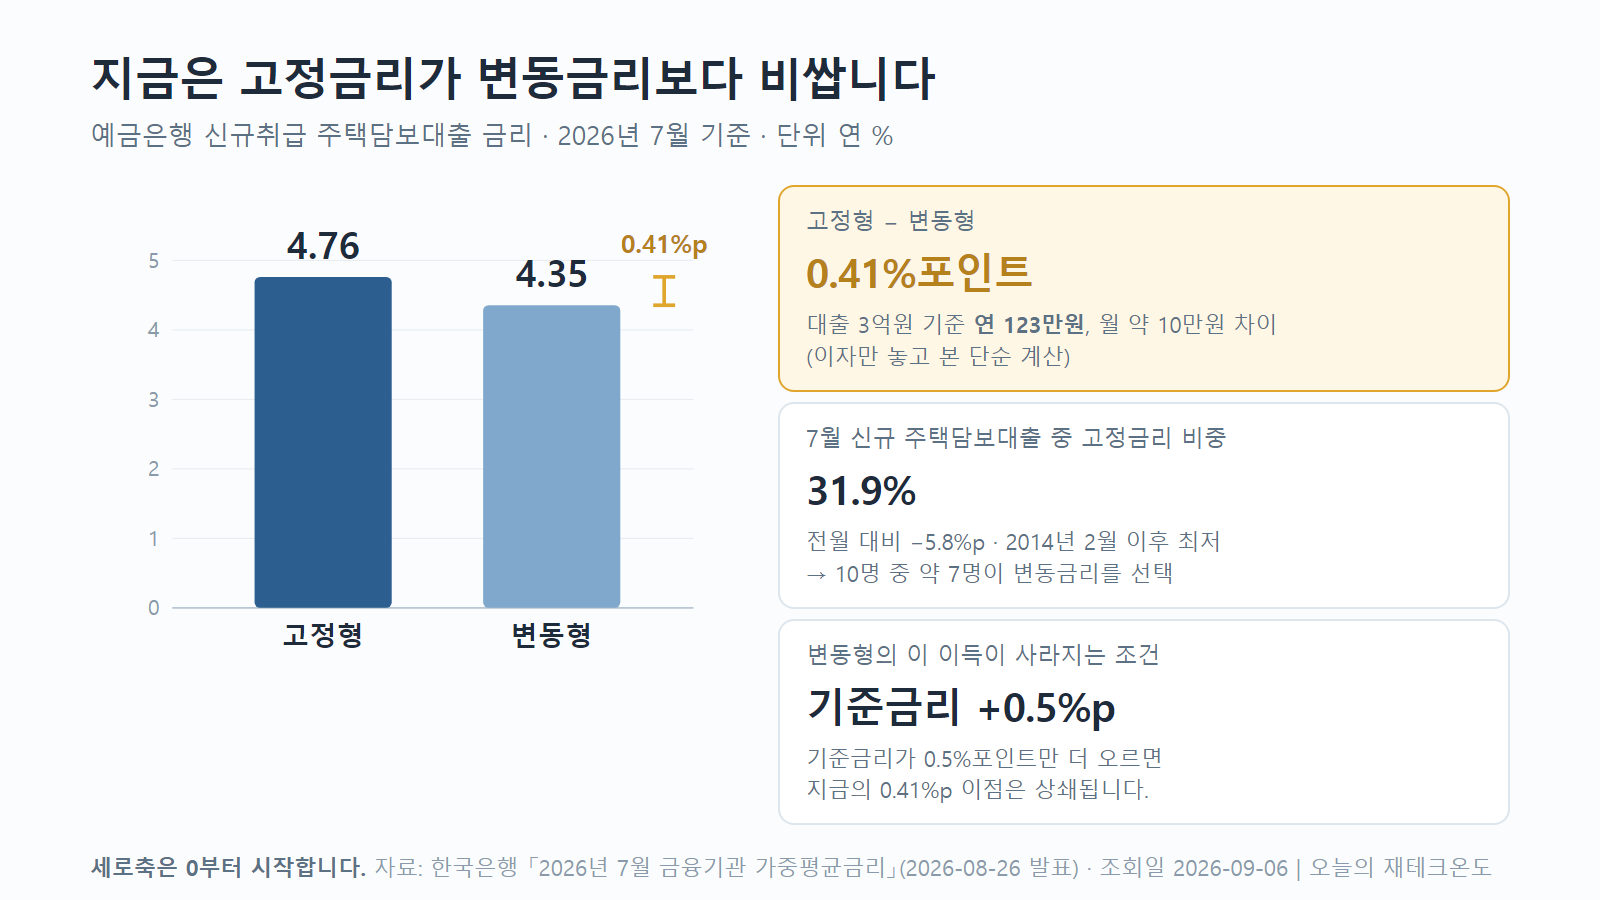
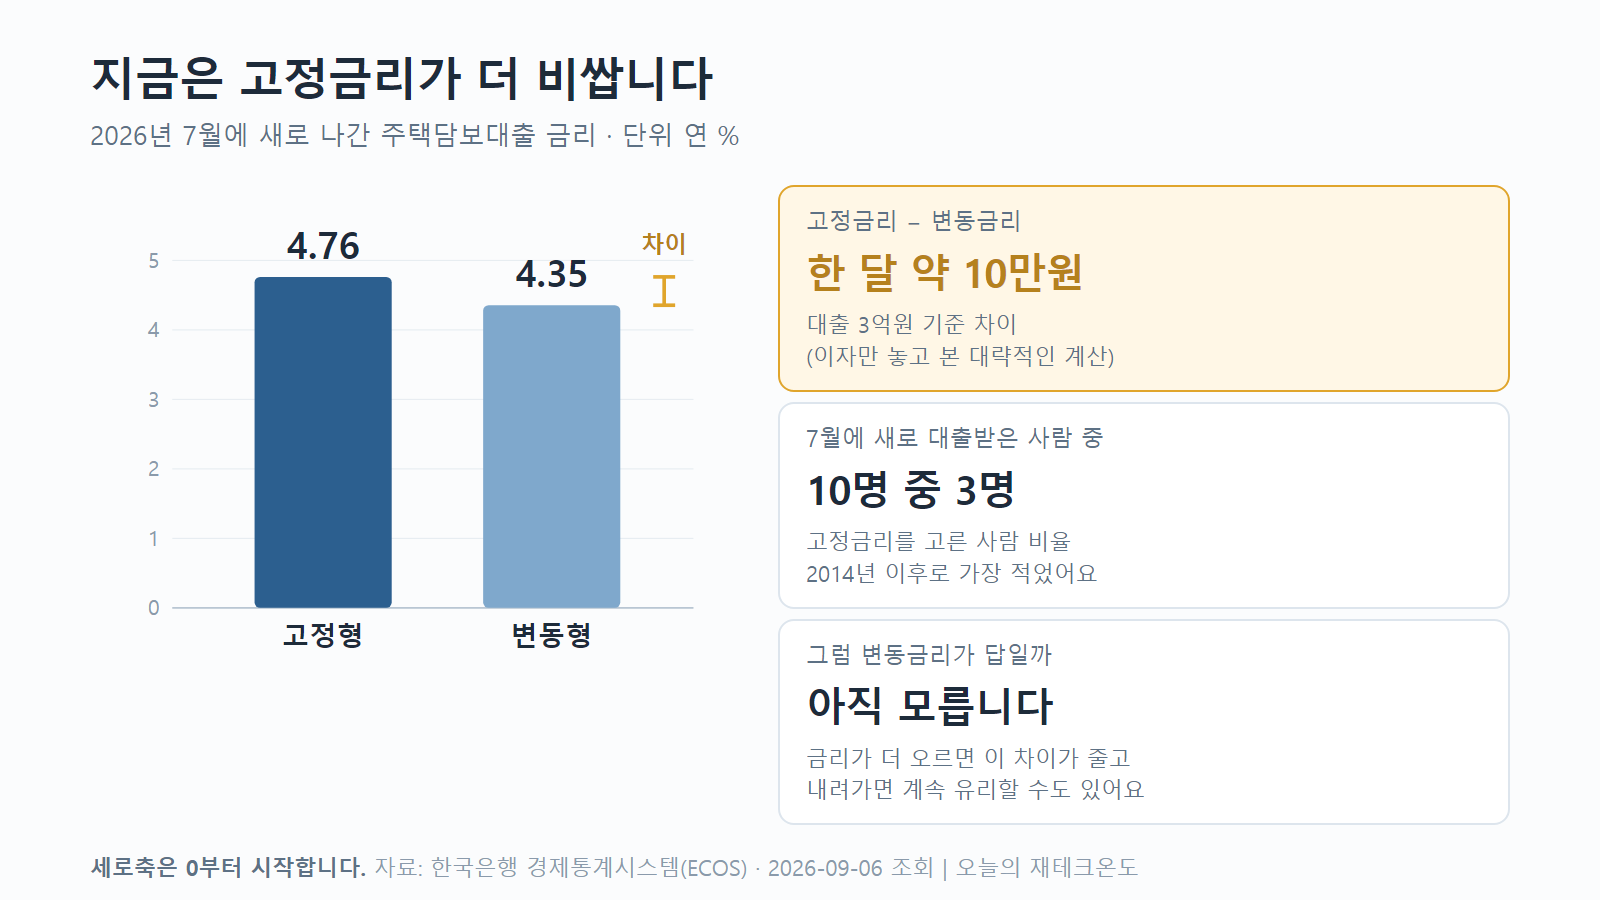
moneyweather: %포인트 용어를 본문과 이미지에서 제거
지적받은 문제
  "%가 아니라 %포인트라고 붙이는 이유가 있는데, 지금 당장 중요한 건
   아니니 넘어가겠습니다" — 글쓴이가 몰라서 회피하는 것처럼 보인다.

  얼버무리느니 빼는 게 낫다고 판단해 용어 자체를 걷어냈다.

본문
  - 1장의 %포인트 설명 문단 삭제
  - 3장 "이번에 오른 0.5%포인트가" → "이번에 오른 만큼(2.50% → 3.00%)이"
    구체적인 숫자로 대체해 용어 없이도 무엇이 오른 건지 알 수 있게 함
  - 본문 %포인트/%p 잔존 0건

이미지 (본문만 고치고 이미지를 빼먹는 실수를 다시 하지 않으려 전체 점검)
  썸네일
    "2.75% → 3.00% (+0.25%p)" → "2.75% → 3.00%"
    하단 "코픽스 공시" → "코픽스 발표"
    하단 "내 대출 갱신일 · 6~12개월" → "내 대출금리 바뀌는 날"

  고정vs변동 그림 — 본문과 어긋나 있어 전면 수정
    "0.41%포인트" → "한 달 약 10만원"
    "31.9% / 전월 대비 −5.8%p" → "10명 중 3명"
    "기준금리 +0.5%p — 0.41%p 이점은 상쇄됩니다"
      → "그럼 변동금리가 답일까 / 아직 모릅니다
         금리가 더 오르면 이 차이가 줄고, 내려가면 계속 유리할 수도 있어요"
    이전 커밋에서 본문의 단정 표현을 뺐는데 그림에는 그대로 남아 있었다.

  차트의 "COFIX 공시(신규취급액 기준)"는 출처 표기 줄이므로 유지.
  출처는 정확해야 한다 (CLAUDE.md §28, §49).

본문 4,241자 / 숫자 130개 (33자당 1개) / 금지표현 0건
검증 수치 전부 유지.

diff --git a/MONEYWEATHER/04_이미지/_소스/2026-09-05_img03_fixvar.html b/MONEYWEATHER/04_이미지/_소스/2026-09-05_img03_fixvar.html
@@ -21,8 +21,8 @@
   .src b { color:#5d7185; }
 </style>
 
-<h2>지금은 고정금리가 변동금리보다 비쌉니다</h2>
-<div class="sub">예금은행 신규취급 주택담보대출 금리 · 2026년 7월 기준 · 단위 연 %</div>
+<h2>지금은 고정금리가 더 비쌉니다</h2>
+<div class="sub">2026년 7월에 새로 나간 주택담보대출 금리 · 단위 연 %</div>
 
 <div class="wrap">
   <svg width="640" height="512" viewBox="0 0 700 560">
@@ -59,28 +59,28 @@
     <line x1="628" y1="118" x2="628" y2="149" stroke="#e0a52c" stroke-width="4"/>
     <line x1="616" y1="118" x2="640" y2="118" stroke="#e0a52c" stroke-width="4"/>
     <line x1="616" y1="149" x2="640" y2="149" stroke="#e0a52c" stroke-width="4"/>
-    <text x="628" y="92" font-size="27" font-weight="700" fill="#b5811d" text-anchor="middle" font-family="'Malgun Gothic',sans-serif">0.41%p</text>
+    <text x="628" y="92" font-size="25" font-weight="700" fill="#b5811d" text-anchor="middle" font-family="'Malgun Gothic',sans-serif">차이</text>
   </svg>
 
   <div class="right">
     <div class="kv accent">
-      <div class="k">고정형 − 변동형</div>
-      <div class="v">0.41%포인트</div>
-      <div class="note">대출 3억원 기준 <b>연 123만원</b>, 월 약 10만원 차이<br>(이자만 놓고 본 단순 계산)</div>
+      <div class="k">고정금리 − 변동금리</div>
+      <div class="v">한 달 약 10만원</div>
+      <div class="note">대출 3억원 기준 차이<br>(이자만 놓고 본 대략적인 계산)</div>
     </div>
     <div class="kv">
-      <div class="k">7월 신규 주택담보대출 중 고정금리 비중</div>
-      <div class="v">31.9%</div>
-      <div class="note">전월 대비 −5.8%p · 2014년 2월 이후 최저<br>→ 10명 중 약 7명이 변동금리를 선택</div>
+      <div class="k">7월에 새로 대출받은 사람 중</div>
+      <div class="v">10명 중 3명</div>
+      <div class="note">고정금리를 고른 사람 비율<br>2014년 이후로 가장 적었어요</div>
     </div>
     <div class="kv">
-      <div class="k">변동형의 이 이득이 사라지는 조건</div>
-      <div class="v">기준금리 +0.5%p</div>
-      <div class="note">기준금리가 0.5%포인트만 더 오르면<br>지금의 0.41%p 이점은 상쇄됩니다.</div>
+      <div class="k">그럼 변동금리가 답일까</div>
+      <div class="v">아직 모릅니다</div>
+      <div class="note">금리가 더 오르면 이 차이가 줄고<br>내려가면 계속 유리할 수도 있어요</div>
     </div>
   </div>
 </div>
 
 <div class="src">
-  <b>세로축은 0부터 시작합니다.</b> 자료: 한국은행 「2026년 7월 금융기관 가중평균금리」(2026-08-26 발표) · 조회일 2026-09-06 | 오늘의 재테크온도
+  <b>세로축은 0부터 시작합니다.</b> 자료: 한국은행 경제통계시스템(ECOS) · 2026-09-06 조회 | 오늘의 재테크온도
 </div>

diff --git a/MONEYWEATHER/03_콘텐츠/초안/2026-09-05_기준금리3.00_대출금리_반영시점/article.html b/MONEYWEATHER/03_콘텐츠/초안/2026-09-05_기준금리3.00_대출금리_반영시점/article.html
@@ -78,7 +78,6 @@
 <tr><td><strong>8월 27일</strong></td><td><strong>3.00%</strong></td></tr>
 </tbody></table></div>
 <p>7월에 한 번 올리고, 8월에 또 올린 겁니다. <strong>6주 사이에 두 번이에요.</strong></p>
-<p>뉴스에서는 이걸 "0.5%포인트 올랐다"고 표현합니다. 2.50이 3.00이 됐으니 0.5가 올랐다는 뜻이에요.</p>
 <h3>왜 두 번이나 올렸을까</h3>
 <p>찾아보니까 물가가 중요한 이유 중 하나였습니다.</p>
 <p>한국은행이 8월에 낸 설명을 보면, 물가 오름세가 더 퍼지는 걸 미리 막을 필요가 있다는 이야기가 나옵니다.</p>
@@ -142,7 +141,7 @@
 <p>아직 안 왔다는 건 뒤집어 보면 오고 있다는 뜻이기도 합니다. 미리 알아두면 마음의 준비라도 되겠죠.</p>
 <p>계산 자체는 곱하기 한 번이면 끝납니다.</p>
 <pre><code>빌린 돈 × 오른 금리 = 1년에 더 내는 이자</code></pre>
-<p>이번에 오른 0.5%포인트가 대출금리에 그대로 전해진다고 치면 이렇게 됩니다.</p>
+<p>이번에 오른 만큼(2.50% → 3.00%)이 대출금리에 그대로 전해진다고 치면 이렇게 됩니다.</p>
 <div class="table-wrap"><table>
 <thead><tr><th>빌린 돈</th><th>1년에 더 내는 이자</th><th>한 달로 나누면</th></tr></thead>
 <tbody>

diff --git a/MONEYWEATHER/03_콘텐츠/초안/2026-09-05_기준금리3.00_대출금리_반영시점/article-tistory.html b/MONEYWEATHER/03_콘텐츠/초안/2026-09-05_기준금리3.00_대출금리_반영시점/article-tistory.html
@@ -19,7 +19,6 @@
 <tr><td><strong>8월 27일</strong></td><td><strong>3.00%</strong></td></tr>
 </tbody></table></div>
 <p>7월에 한 번 올리고, 8월에 또 올린 겁니다. <strong>6주 사이에 두 번이에요.</strong></p>
-<p>뉴스에서는 이걸 "0.5%포인트 올랐다"고 표현합니다. 2.50이 3.00이 됐으니 0.5가 올랐다는 뜻이에요.</p>
 <h3>왜 두 번이나 올렸을까</h3>
 <p>찾아보니까 물가가 중요한 이유 중 하나였습니다.</p>
 <p>한국은행이 8월에 낸 설명을 보면, 물가 오름세가 더 퍼지는 걸 미리 막을 필요가 있다는 이야기가 나옵니다.</p>
@@ -83,7 +82,7 @@
 <p>아직 안 왔다는 건 뒤집어 보면 오고 있다는 뜻이기도 합니다. 미리 알아두면 마음의 준비라도 되겠죠.</p>
 <p>계산 자체는 곱하기 한 번이면 끝납니다.</p>
 <pre><code>빌린 돈 × 오른 금리 = 1년에 더 내는 이자</code></pre>
-<p>이번에 오른 0.5%포인트가 대출금리에 그대로 전해진다고 치면 이렇게 됩니다.</p>
+<p>이번에 오른 만큼(2.50% → 3.00%)이 대출금리에 그대로 전해진다고 치면 이렇게 됩니다.</p>
 <div class="table-wrap"><table>
 <thead><tr><th>빌린 돈</th><th>1년에 더 내는 이자</th><th>한 달로 나누면</th></tr></thead>
 <tbody>

diff --git a/MONEYWEATHER/04_이미지/_소스/2026-09-05_img01_thumb.html b/MONEYWEATHER/04_이미지/_소스/2026-09-05_img01_thumb.html
@@ -40,15 +40,15 @@
   </div>
 
   <div class="rate"><span class="num">3.00</span><span class="unit">%</span></div>
-  <div class="chg">2.75% &nbsp;→&nbsp; 3.00% &nbsp;(+0.25%p)</div>
+  <div class="chg">2.75% &nbsp;→&nbsp; 3.00%</div>
 
   <h1>기준금리는 올랐는데<br><em>내 대출이자는 왜 그대로일까?</em></h1>
 
   <div class="strip">
     <div class="step on"><span class="dot"></span><span>기준금리 인상</span></div>
     <span class="sep">→</span>
-    <div class="step"><span class="dot"></span><span>코픽스 공시 · 매월 15일</span></div>
+    <div class="step"><span class="dot"></span><span>코픽스 발표 · 매월 15일</span></div>
     <span class="sep">→</span>
-    <div class="step"><span class="dot"></span><span>내 대출 갱신일 · 6~12개월</span></div>
+    <div class="step"><span class="dot"></span><span>내 대출금리 바뀌는 날</span></div>
   </div>
 </div>

diff --git a/MONEYWEATHER/03_콘텐츠/초안/2026-09-05_기준금리3.00_대출금리_반영시점/draft.md b/MONEYWEATHER/03_콘텐츠/초안/2026-09-05_기준금리3.00_대출금리_반영시점/draft.md
@@ -33,8 +33,6 @@
 
 7월에 한 번 올리고, 8월에 또 올린 겁니다. **6주 사이에 두 번이에요.**
 
-뉴스에서는 이걸 "0.5%포인트 올랐다"고 표현합니다. 2.50이 3.00이 됐으니 0.5가 올랐다는 뜻이에요.
-
 ### 왜 두 번이나 올렸을까
 
 찾아보니까 물가가 중요한 이유 중 하나였습니다.
@@ -146,7 +144,7 @@
 빌린 돈 × 오른 금리 = 1년에 더 내는 이자
 ```
 
-이번에 오른 0.5%포인트가 대출금리에 그대로 전해진다고 치면 이렇게 됩니다.
+이번에 오른 만큼(2.50% → 3.00%)이 대출금리에 그대로 전해진다고 치면 이렇게 됩니다.
 
 | 빌린 돈 | 1년에 더 내는 이자 | 한 달로 나누면 |
 | --- | --- | --- |
